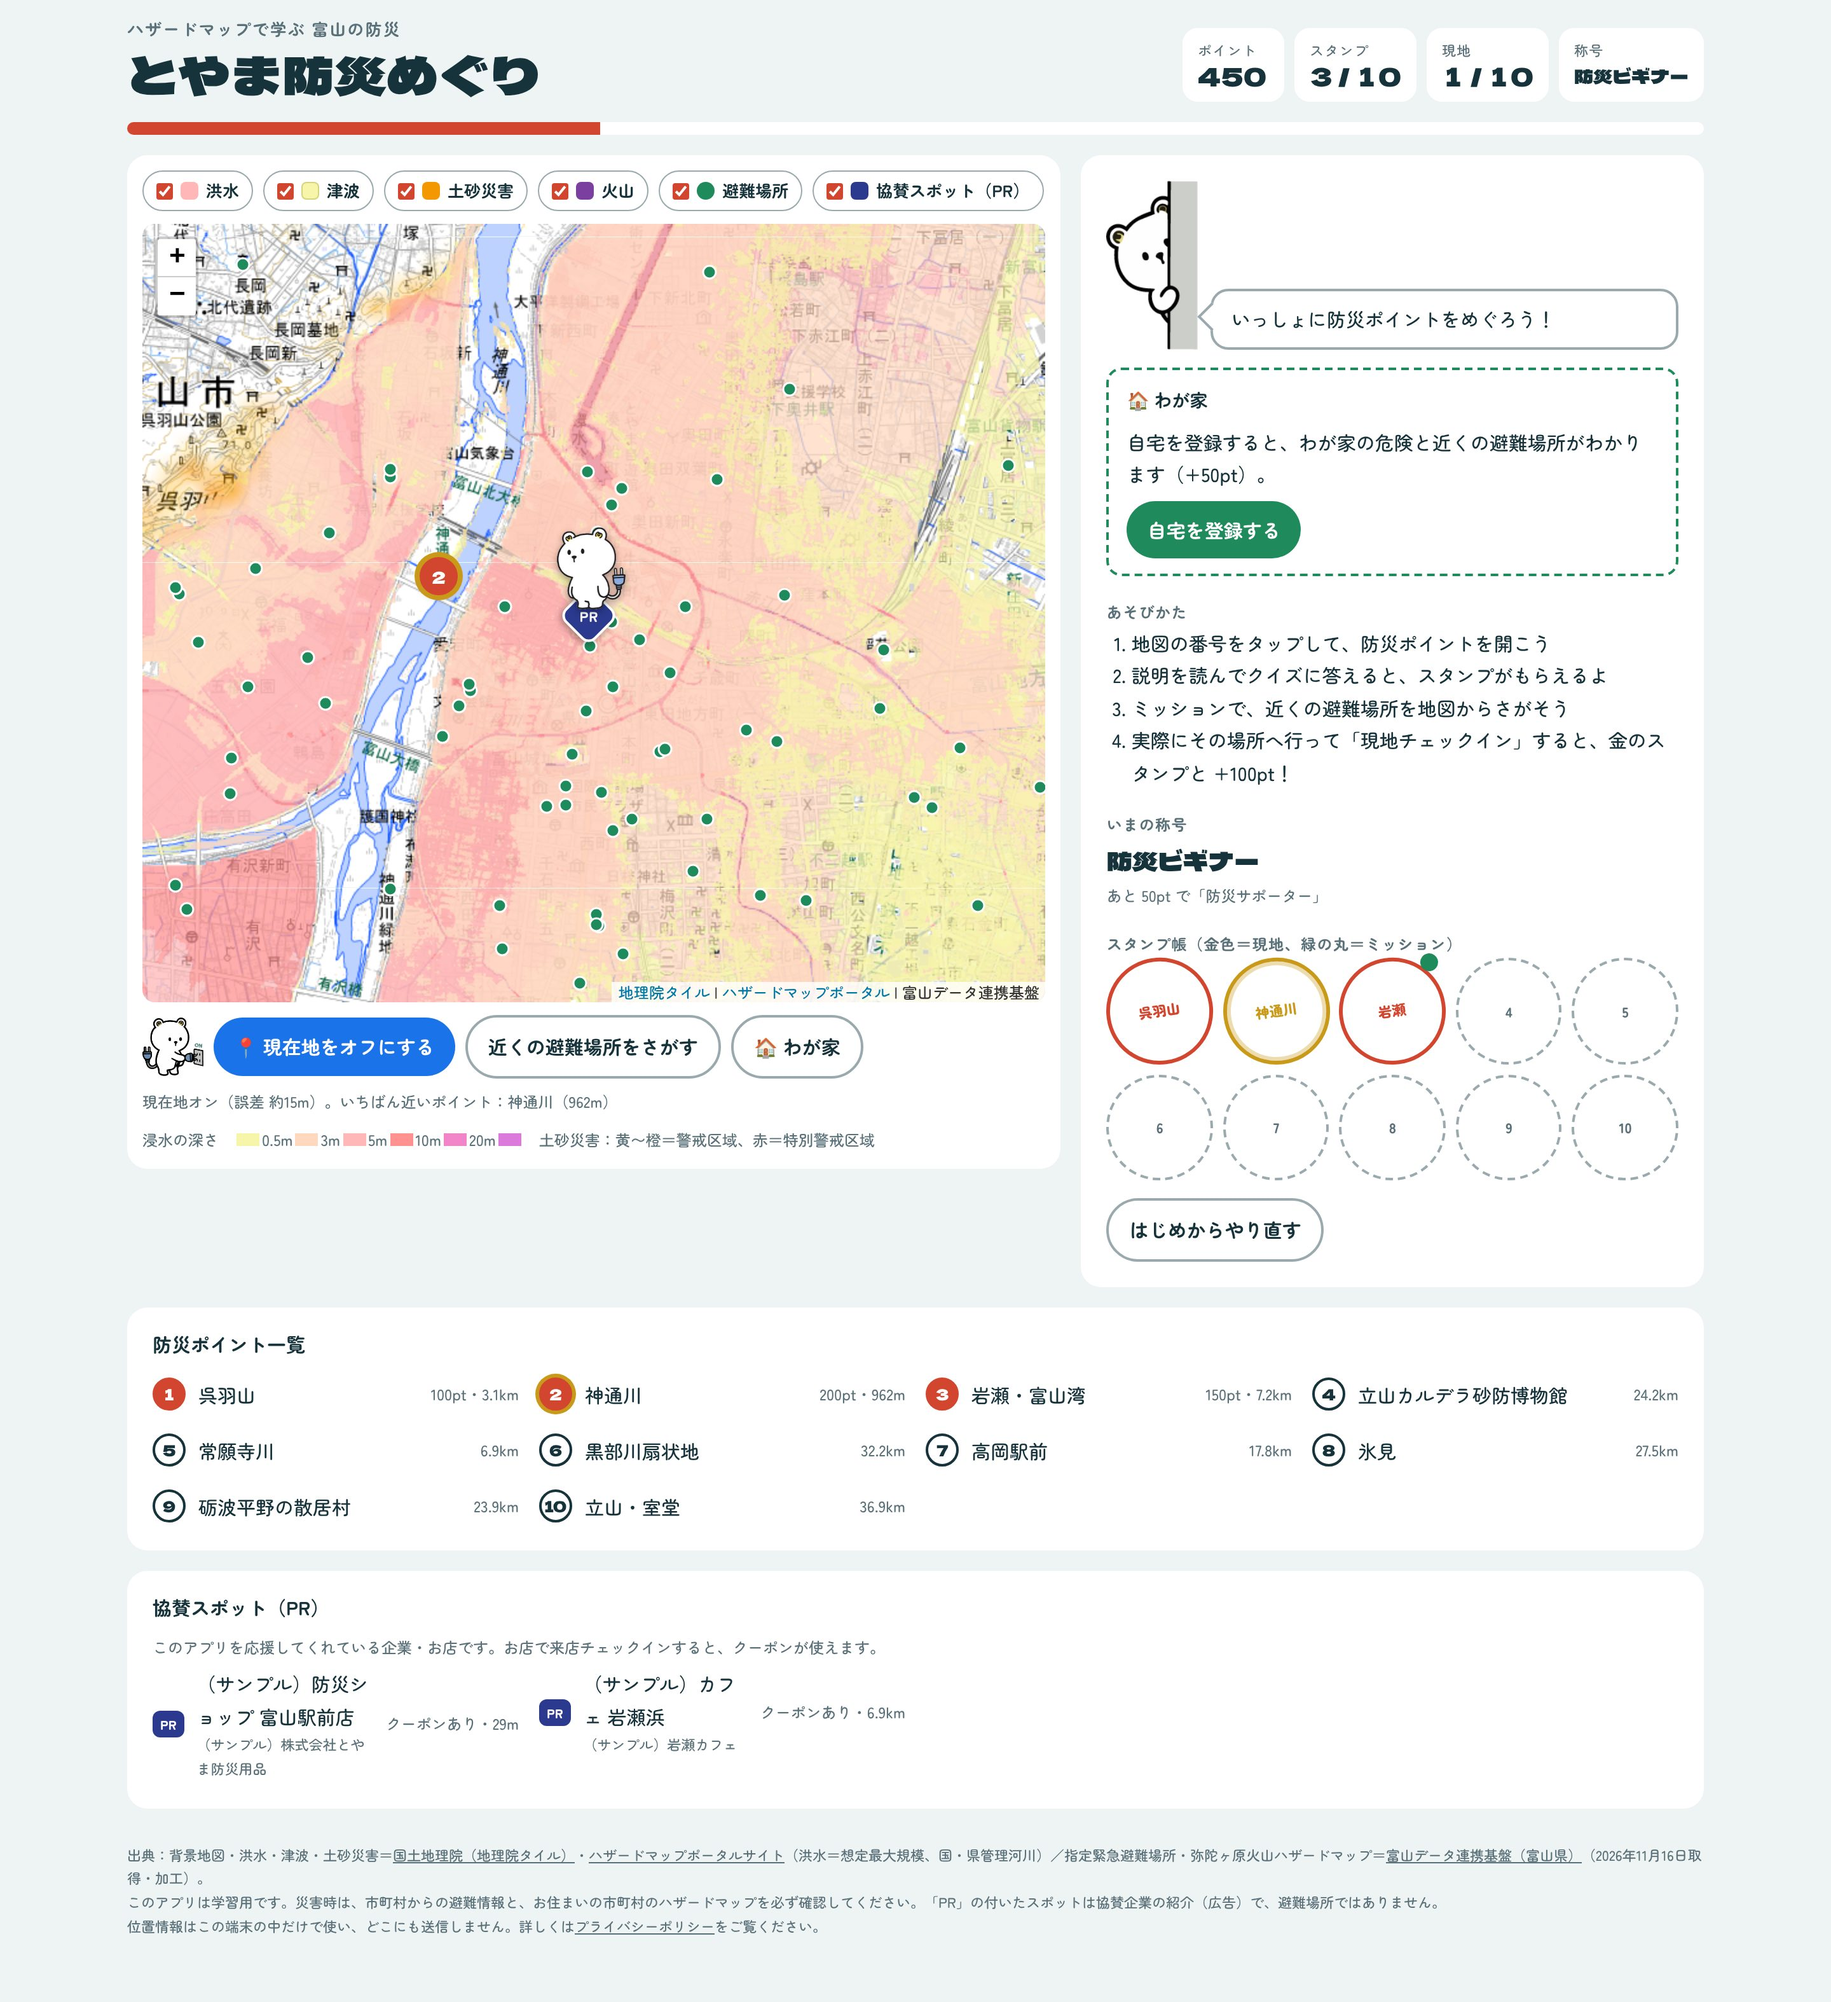
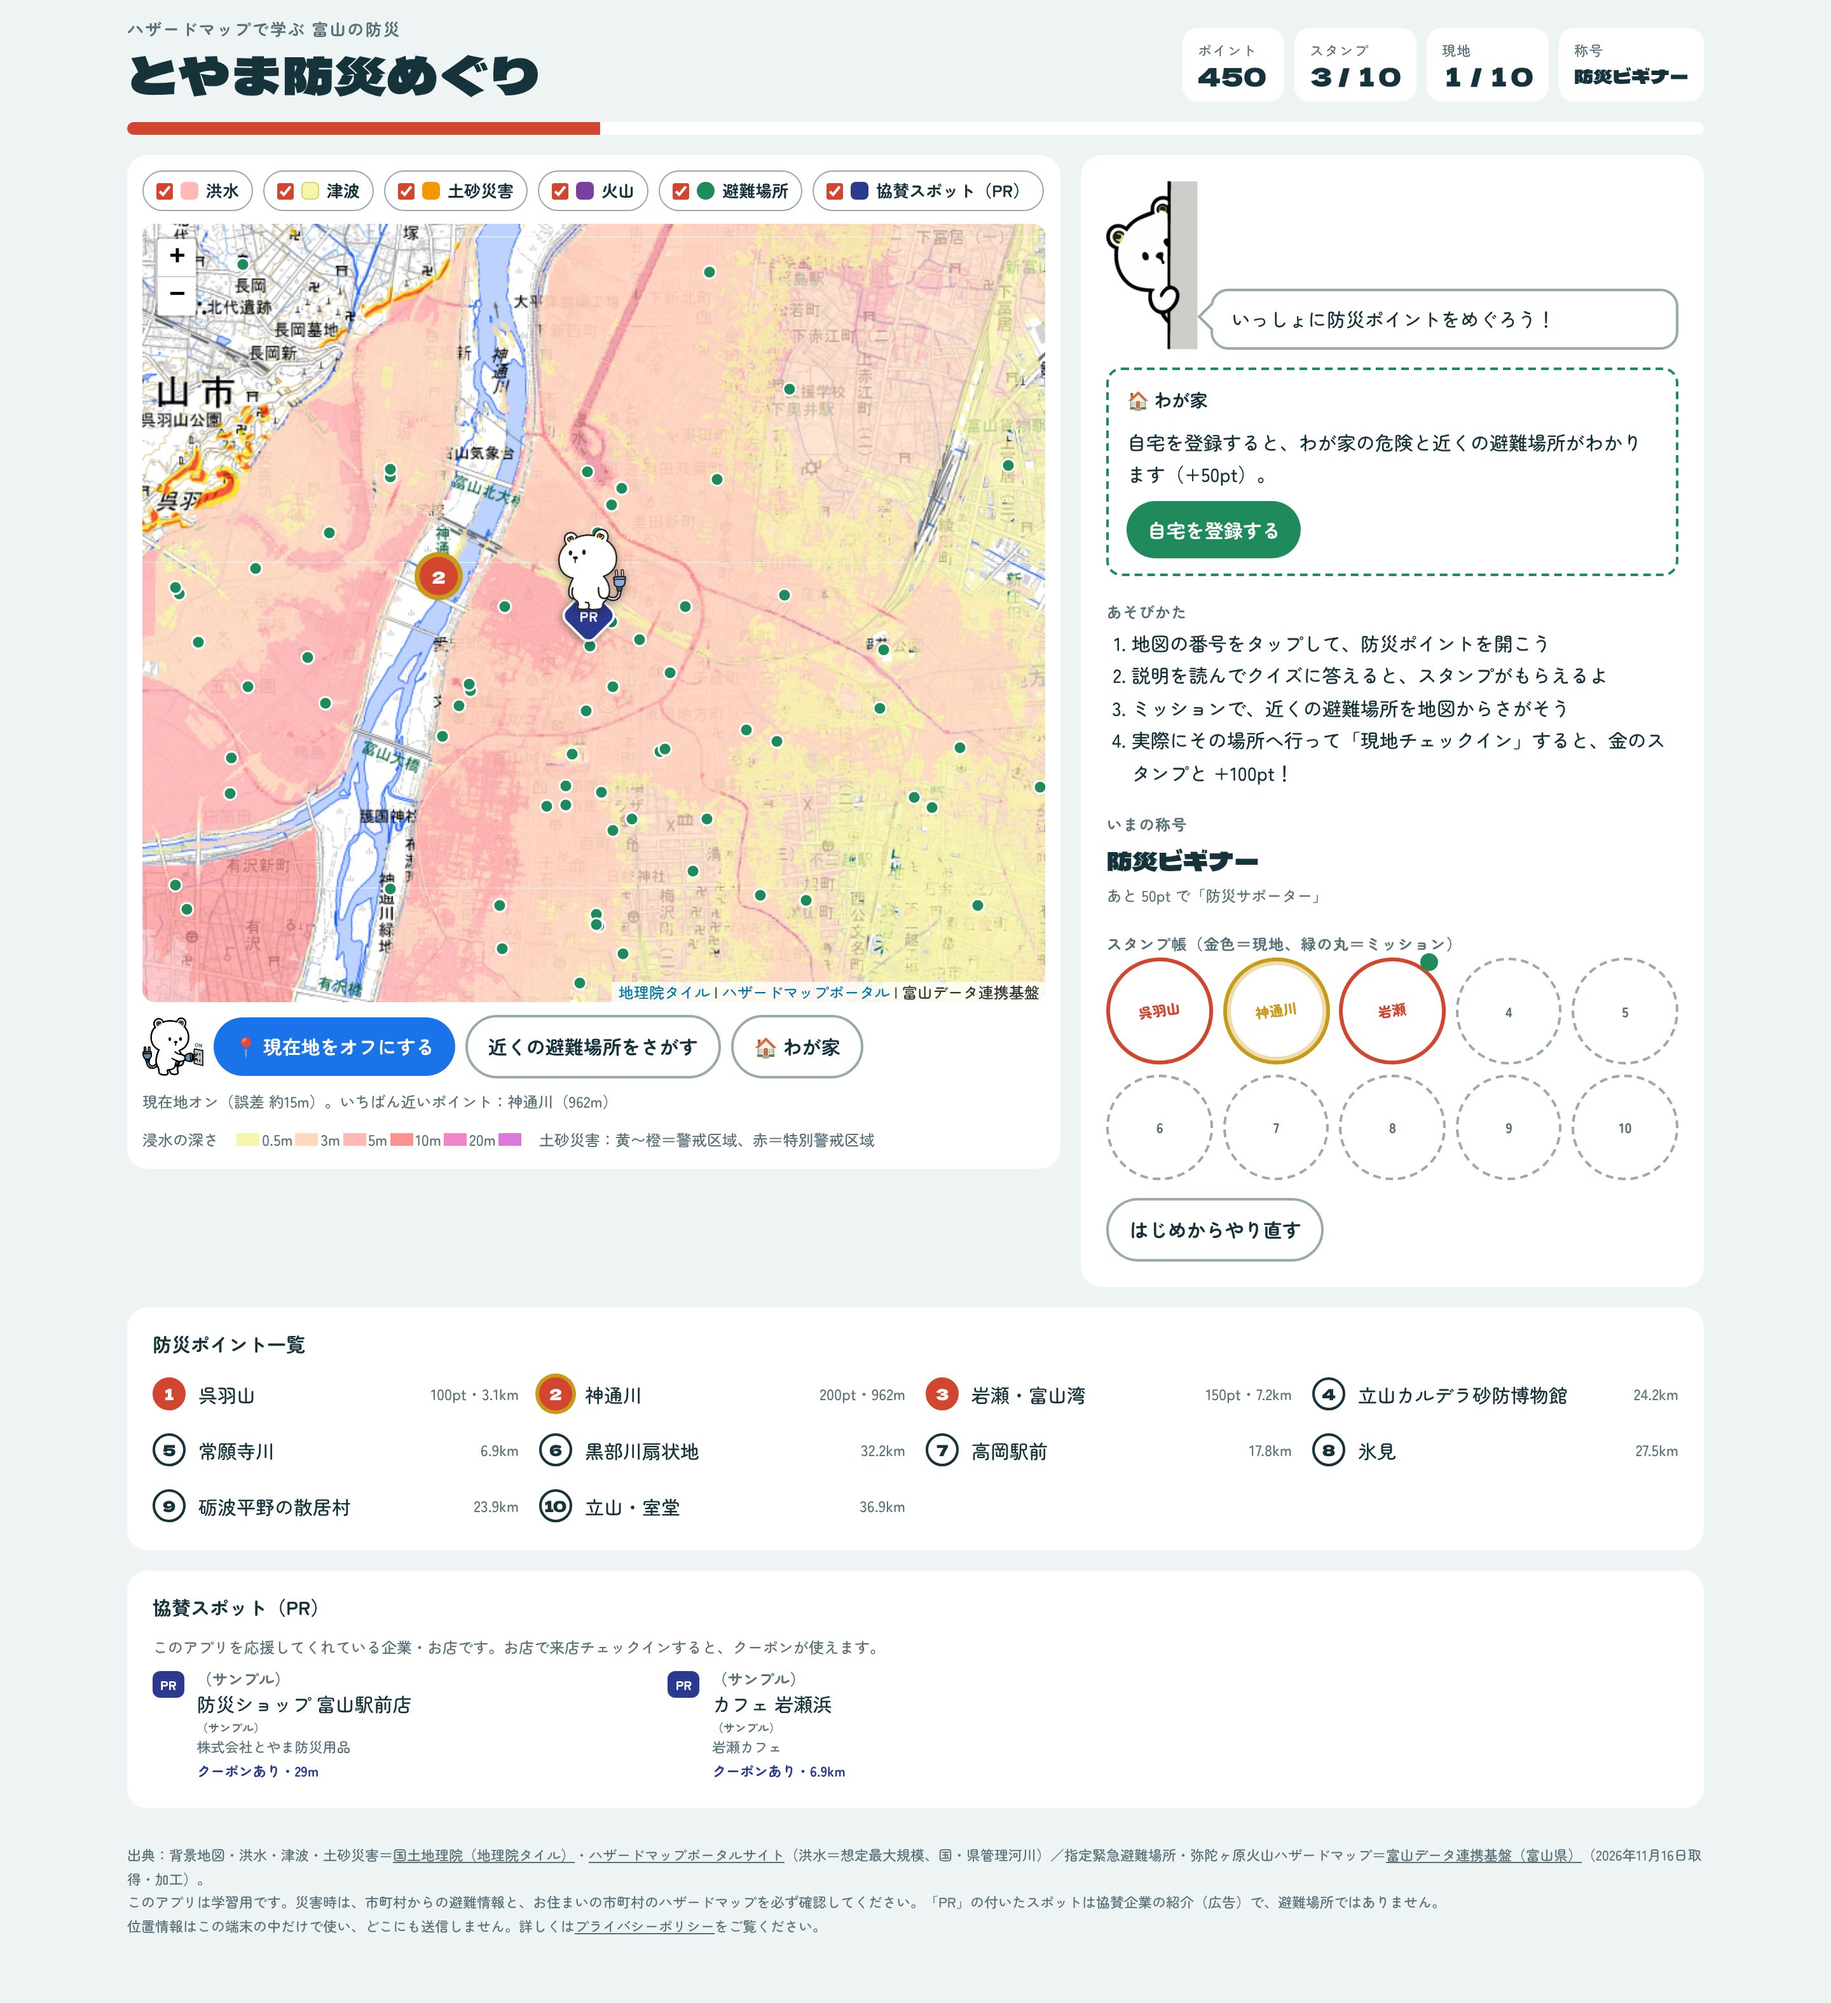
協賛スポットの表示を直したスクリーンショットに差し替え
Claude-Session: https://claude.ai/code/session_01WUrt9euYbb3sq9Wq1hzGBG

diff --git a/index.html b/index.html
@@ -25,8 +25,8 @@
 <div class="wrap">
   <h1>とやま防災めぐり スクリーンショット</h1>
   <div class="shots">
-    <figure><figcaption>PC版</figcaption><img src="images/pc.jpg" alt="とやま防災めぐり PC版の画面。ハザードマップ上に防災ポイントと避難場所、現在地のキャラクターが表示されている" width="2880" height="3148"></figure>
-    <figure class="phone"><figcaption>スマホ版</figcaption><img src="images/phone.jpg" alt="とやま防災めぐり スマホ版の画面" width="1170" height="9183"></figure>
+    <figure><figcaption>PC版</figcaption><img src="images/pc.jpg" alt="とやま防災めぐり PC版の画面。ハザードマップ上に防災ポイントと避難場所、現在地のキャラクターが表示されている" width="2880" height="3150"></figure>
+    <figure class="phone"><figcaption>スマホ版</figcaption><img src="images/phone.jpg" alt="とやま防災めぐり スマホ版の画面" width="1170" height="9243"></figure>
   </div>
 </div>
 <script>
